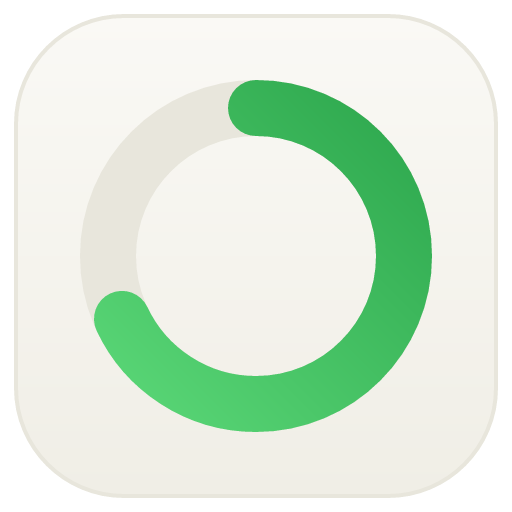
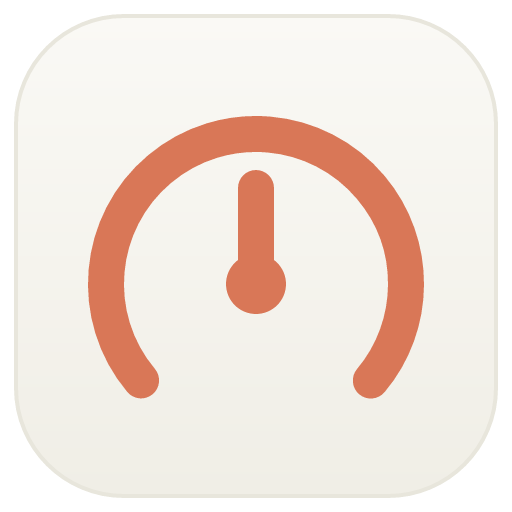
Rename to Claude Session Usage, add Toggle Usage Ring
- Rename extension to Claude Session Usage (claude-session-usage)
- Clearer command names: Check Usage, Menu Bar Ring, Connect Claude Code
- New Toggle Usage Ring command to show or hide the menu bar ring
- New speedometer icon and refreshed screenshots

Changed region(s): [[0.1562, 0.1562, 0.8438, 0.8438]]

diff --git a/src/usage-menu-bar.tsx b/src/usage-menu-bar.tsx
@@ -1,5 +1,6 @@
-import { Icon, MenuBarExtra, open, openExtensionPreferences } from "@raycast/api";
+import { environment, Icon, LaunchType, MenuBarExtra, open, openExtensionPreferences } from "@raycast/api";
 import { CONNECT_COMMAND, USAGE_PAGE } from "./lib/constants";
+import { isRingHidden, setRingHidden } from "./lib/ring-visibility";
 import { openCommand, useUsage } from "./lib/use-usage";
 import { deriveView, type Banner } from "./lib/view";
 
@@ -10,6 +11,14 @@ const BANNER_ICONS: Record<Banner["kind"], Icon> = {
 };
 
 export default function Command() {
+  if (isRingHidden()) {
+    if (environment.launchType !== LaunchType.UserInitiated) return null;
+    setRingHidden(false);
+  }
+  return <UsageRing />;
+}
+
+function UsageRing() {
   const { state, error, prefs, isLoading } = useUsage();
   const view = deriveView(state, prefs, Date.now(), error);
 

diff --git a/src/lib/use-usage.ts b/src/lib/use-usage.ts
@@ -3,7 +3,7 @@ import { useCachedPromise } from "@raycast/utils";
 import { EMPTY_STATE, type UsageState } from "../types";
 import { isBridgeConnected } from "./bridge";
 import { readClaudeCodeUsage } from "./claude-code-source";
-import { MENU_BAR_COMMAND } from "./constants";
+import { redrawRing } from "./ring-visibility";
 
 export async function loadUsageState(): Promise<UsageState> {
   const [connected, usage] = await Promise.all([isBridgeConnected(), readClaudeCodeUsage()]);
@@ -11,7 +11,7 @@ export async function loadUsageState(): Promise<UsageState> {
 }
 
 export async function syncMenuBar(): Promise<void> {
-  await launchCommand({ name: MENU_BAR_COMMAND, type: LaunchType.Background }).catch(() => undefined);
+  await redrawRing().catch(() => undefined);
 }
 
 export async function openCommand(name: string): Promise<void> {

diff --git a/src/lib/ring-visibility.ts b/src/lib/ring-visibility.ts
@@ -1,0 +1,18 @@
+import { Cache, launchCommand, LaunchType } from "@raycast/api";
+import { MENU_BAR_COMMAND } from "./constants";
+
+const cache = new Cache({ namespace: "menu-bar" });
+const HIDDEN = "hidden";
+
+export function isRingHidden(): boolean {
+  return cache.get(HIDDEN) === "1";
+}
+
+export function setRingHidden(hidden: boolean): void {
+  if (hidden) cache.set(HIDDEN, "1");
+  else cache.remove(HIDDEN);
+}
+
+export async function redrawRing(): Promise<void> {
+  await launchCommand({ name: MENU_BAR_COMMAND, type: LaunchType.Background });
+}

diff --git a/src/toggle-usage-ring.tsx b/src/toggle-usage-ring.tsx
@@ -1,0 +1,15 @@
+import { showHUD } from "@raycast/api";
+import { isRingHidden, redrawRing, setRingHidden } from "./lib/ring-visibility";
+
+export default async function Command() {
+  const hide = !isRingHidden();
+  setRingHidden(hide);
+  try {
+    await redrawRing();
+  } catch {
+    setRingHidden(false);
+    await showHUD("Run Menu Bar Ring once to turn it on");
+    return;
+  }
+  await showHUD(hide ? "Menu bar ring hidden" : "Menu bar ring shown");
+}

diff --git a/README.md b/README.md
@@ -1,4 +1,4 @@
-# Claude Code Usage
+# Claude Session Usage
 
 Shows your **Claude subscription usage** as a small ring in the macOS menu bar:
 
@@ -19,15 +19,16 @@ The numbers are the ones Claude Code shows with `/usage`. They are not estimates
 
 1. Run **Connect Claude Code** and press ↵.
 2. Send any message in Claude Code.
-3. Run **Claude Usage Ring** once to activate the menu bar item.
+3. Run **Menu Bar Ring** once to put the ring in the menu bar.
 
 ## Commands
 
 | Command | |
 |---|---|
 | **Connect Claude Code** | Sets up Claude Code to send its usage numbers to the extension. Shows the connection status, and disconnects again. |
-| **Check Claude Usage** | Your usage and reset times in a Raycast window. Actions: Open Usage Page, Refresh Usage (⌘R), Copy Usage Summary (⌘⇧C). |
-| **Claude Usage Ring** | The menu bar ring. Click it for exact percentages, reset countdowns and when the numbers were last updated. |
+| **Check Usage** | Your usage and reset times in a Raycast window. Actions: Open Usage Page, Refresh Usage (⌘R), Copy Usage Summary (⌘⇧C). |
+| **Menu Bar Ring** | The ring in the menu bar. Click it for exact percentages, reset countdowns and when the numbers were last updated. |
+| **Toggle Usage Ring** | Shows or hides the ring in the menu bar. |
 
 ## How it works
 

diff --git a/CHANGELOG.md b/CHANGELOG.md
@@ -1,7 +1,8 @@
-# Claude Code Usage Changelog
+# Claude Session Usage Changelog
 
 ## [Initial Version] - {PR_MERGE_DATE}
 
 - Menu bar ring for the 5-hour and weekly Claude subscription limits, green, then orange at 30% left and red at 10% left
-- Check Claude Usage command with the same data in a list
+- Check Usage command with the same data in a list
+- Toggle Usage Ring command to show or hide the ring in the menu bar
 - Connect Claude Code: usage arrives through Claude Code's status line, with no login access and no API calls
